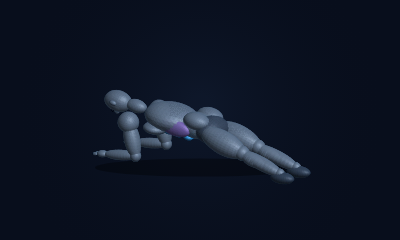
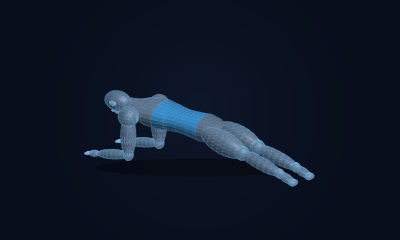
Refine plank demo with continuous anatomy and wireframe shading

Changed region(s): [[0.21, 0.3792, 0.81, 0.7875], [0.6, 0.525, 0.63, 0.5542], [0.57, 0.5542, 0.6, 0.5833]]

diff --git a/resources/js/Support/exerciseDemoScene.js b/resources/js/Support/exerciseDemoScene.js
@@ -52,7 +52,7 @@ export function exercisePose(slug, phase) {
         });
         pose.arms= [-1,1].map(side=>{
             const shoulder=[side*.245,.51-drop,-.43];
-            if(slug==='plank') { shoulder[1]=.37-drop;return {shoulder,elbow:[side*.245,.09,-.36],wrist:[side*.245,.07,-.64]}; }
+            if(slug==='plank') { shoulder[1]=.42-drop;return {shoulder,elbow:[side*.245,.09,-.43],wrist:[side*.245,.065,-.72]}; }
             const wrist=[side*.28,.07,-.46];return {shoulder,wrist,elbow:joint(shoulder,wrist,.29,.27,[side,0,.4])};
         });
         if(slug==='plank') {pose.neck[1]-=.12;pose.head[1]-=.12;pose.pelvis[1]-=.06;pose.legs.forEach((leg)=>{leg.hip[1]-=.06;leg.knee=mix(leg.hip,leg.ankle,.5);});}
@@ -83,8 +83,9 @@ export function drawExerciseDemo(canvas, slug, phase) {
     const camera=p=>{const q=sub(p,center),depth=q[0]*sy+q[2]*cy;return [200+(q[0]*cy-q[2]*sy)*scale,121+(-q[1]*cp+depth*sp)*scale,depth*cp+q[1]*sp];};
     const view=unit([sy,sp,cy]),light=unit([-.6,.85,.9]);
     const faces=[];
+    const plank = slug === 'plank';
     const ellipsoid=(position,radii,color=neutral,basis=[[1,0,0],[0,1,0],[0,0,1]])=>{
-        const latitude=18,longitude=28, vertices=[];
+        const latitude=plank?12:18,longitude=plank?18:28, vertices=[];
         for(let a=0;a<=latitude;a++) {
             const theta=Math.PI*a/latitude;
             for(let b=0;b<=longitude;b++) {
@@ -117,6 +118,29 @@ export function drawExerciseDemo(canvas, slug, phase) {
     const forward=mul(unit(cross(right,up)),pose.prone?-1:1),basis=[right,up,forward];
     const body=(height,x,depth)=>add(mix(pose.pelvis,pose.neck,height),add(mul(right,x),mul(forward,depth)));
     const chestFocus=['bench-press','push-up'].includes(slug),legsFocus=slug==='bodyweight-squat',coreFocus=slug==='plank';
+    if (plank) {
+        // Continuous hip-to-neck surface avoids the disconnected mannequin segments.
+        const rings = [[-.14,.08,.07],[-.05,.145,.10],[.08,.17,.115],[.22,.155,.103],[.36,.148,.097],[.50,.173,.108],[.64,.20,.12],[.76,.215,.113],[.86,.18,.095],[.96,.09,.065],[1.08,.052,.052]];
+        const segments = 24;
+        const vertices = rings.map(([height,width,depth]) => Array.from({length:segments}, (_,index) => {
+            const angle=index/segments*Math.PI*2;
+            const point=body(height,Math.cos(angle)*width,Math.sin(angle)*depth);
+            const normal=unit(add(mul(right,Math.cos(angle)/width),mul(forward,Math.sin(angle)/depth)));
+            return {point:camera(point),normal};
+        }));
+        for(let ring=0;ring<rings.length-1;ring++) {
+            for(let index=0;index<segments;index++) {
+                const next=(index+1)%segments;
+                const points=[vertices[ring][index],vertices[ring][next],vertices[ring+1][next],vertices[ring+1][index]];
+                const normal=unit(points.reduce((sum,vertex)=>add(sum,vertex.normal),[0,0,0]));
+                if(dot(normal,view)<0) continue;
+                const core=ring>=2 && ring<=5;
+                const color=core?blue:neutral;
+                const shade=.34+.66*Math.max(0,dot(normal,light));
+                faces.push({points:points.map(vertex=>vertex.point),depth:points.reduce((sum,vertex)=>sum+vertex.point[2],0)/4,fill:`rgb(${color.map(value=>Math.round(value*shade)).join(',')})`});
+            }
+        }
+    } else {
     ellipsoid(body(.52,0,0),[.215,.235,.115],neutral,basis);
     ellipsoid(body(.18,0,0),[.15,.16,.105],neutral,basis);
     ellipsoid(pose.pelvis,[.166,.13,.113],[62,78,102],basis);
@@ -127,6 +151,7 @@ export function drawExerciseDemo(canvas, slug, phase) {
         for(let row=0;row<3;row++) ellipsoid(body(.25+row*.13,side*.045,.107),[.040,.039,.022],coreFocus?blue:neutral,basis);
         ellipsoid(body(.36,side*.139,.03),[.044,.14,.065],coreFocus?violet:neutral,basis);
     }
+    }
     ellipsoid(pose.head,[.087,.12,.085],neutral,basis);
     ellipsoid(add(pose.head,mul(forward,.083)),[.016,.025,.025],neutral,basis);
     for(const side of [-1,1]) {
@@ -136,7 +161,7 @@ export function drawExerciseDemo(canvas, slug, phase) {
     pose.arms.forEach((arm)=>{
         ellipsoid(arm.shoulder,[.084,.087,.086],chestFocus?violet:neutral,basis);
         bone(arm.shoulder,arm.elbow,.063,.065,chestFocus?violet:neutral);
-        bone(add(mix(arm.shoulder,arm.elbow,.18),mul(forward,.032)),add(mix(arm.shoulder,arm.elbow,.82),mul(forward,.034)),.042,.034,slug==='dumbbell-curl'?blue:neutral);
+        if (!plank) bone(add(mix(arm.shoulder,arm.elbow,.18),mul(forward,.032)),add(mix(arm.shoulder,arm.elbow,.82),mul(forward,.034)),.042,.034,slug==='dumbbell-curl'?blue:neutral);
         ellipsoid(arm.elbow,[.044,.046,.043]);
         bone(arm.elbow,arm.wrist,.047,.039);
         const handAxis=unit(sub(arm.wrist,arm.elbow)),handEnd=add(arm.wrist,mul(handAxis,.085));
@@ -156,12 +181,17 @@ export function drawExerciseDemo(canvas, slug, phase) {
     });
     pose.legs.forEach((leg)=>{
         bone(leg.hip,leg.knee,.092,.097,legsFocus?blue:neutral);
-        bone(add(mix(leg.hip,leg.knee,.15),mul(forward,.044)),add(mix(leg.hip,leg.knee,.84),mul(forward,.04)),.066,.058,legsFocus?blue:neutral);
+        if (!plank) bone(add(mix(leg.hip,leg.knee,.15),mul(forward,.044)),add(mix(leg.hip,leg.knee,.84),mul(forward,.04)),.066,.058,legsFocus?blue:neutral);
         ellipsoid(leg.knee,[.058,.059,.061]);
         bone(leg.knee,leg.ankle,.059,.053);
-        bone(add(mix(leg.knee,leg.ankle,.12),[0,0,-.035]),add(mix(leg.knee,leg.ankle,.60),[0,0,-.03]),.058,.05,slug==='steady-state-run'?blue:neutral);
+        if (!plank) bone(add(mix(leg.knee,leg.ankle,.12),[0,0,-.035]),add(mix(leg.knee,leg.ankle,.60),[0,0,-.03]),.058,.05,slug==='steady-state-run'?blue:neutral);
         ellipsoid(leg.ankle,[.036,.038,.042]);
-        ellipsoid(add(leg.ankle,[0,-.035,pose.prone?.025:.07]),[.055,.045,.108],[60,78,103]);
+        if (plank) {
+            bone(leg.ankle,add(leg.ankle,[0,-.06,.13]),.047,.033);
+            ellipsoid(add(leg.ankle,[0,-.06,.13]),[.05,.026,.035]);
+        } else {
+            ellipsoid(add(leg.ankle,[0,-.035,pose.prone?.025:.07]),[.055,.045,.108],[60,78,103]);
+        }
     });
     if(slug==='bench-press') {
         bone([0,.47,-.72],[0,.47,.39],.155,.055,[38,54,77]);
@@ -175,5 +205,5 @@ export function drawExerciseDemo(canvas, slug, phase) {
     const ground=camera([0,0,.12]);
     ctx.fillStyle='rgba(0,0,0,.35)';ctx.beginPath();ctx.ellipse(ground[0],ground[1],horizontal?105:53,9,0,0,Math.PI*2);ctx.fill();
     faces.sort((a,b)=>a.depth-b.depth);
-    for(const face of faces) {ctx.beginPath();face.points.forEach((p,i)=>i?ctx.lineTo(p[0],p[1]):ctx.moveTo(p[0],p[1]));ctx.closePath();ctx.fillStyle=face.fill;ctx.strokeStyle=face.fill;ctx.lineWidth=.35;ctx.fill();ctx.stroke();}
+    for(const face of faces) {ctx.beginPath();face.points.forEach((p,i)=>i?ctx.lineTo(p[0],p[1]):ctx.moveTo(p[0],p[1]));ctx.closePath();ctx.fillStyle=face.fill;ctx.strokeStyle=plank?'rgba(115,193,245,.28)':face.fill;ctx.lineWidth=plank?.45:.35;ctx.fill();ctx.stroke();}
 }

diff --git a/resources/js/Support/exerciseDemos.js b/resources/js/Support/exerciseDemos.js
@@ -93,7 +93,7 @@ export const EXERCISE_DEMOS = {
 export const demoFor = (slug) => {
     const key = typeof slug === 'string' ? slug.toLowerCase().trim().replaceAll('_', '-').replaceAll(' ', '-') : '';
     // Bump when replacing public assets so returning browsers fetch the new artwork.
-    const artworkVersion = '3d-1';
+    const artworkVersion = key === 'plank' ? 'plank-wireframe-2' : '3d-1';
 
     return Object.hasOwn(EXERCISE_DEMOS, key) ? {
         ...EXERCISE_DEMOS[key],
